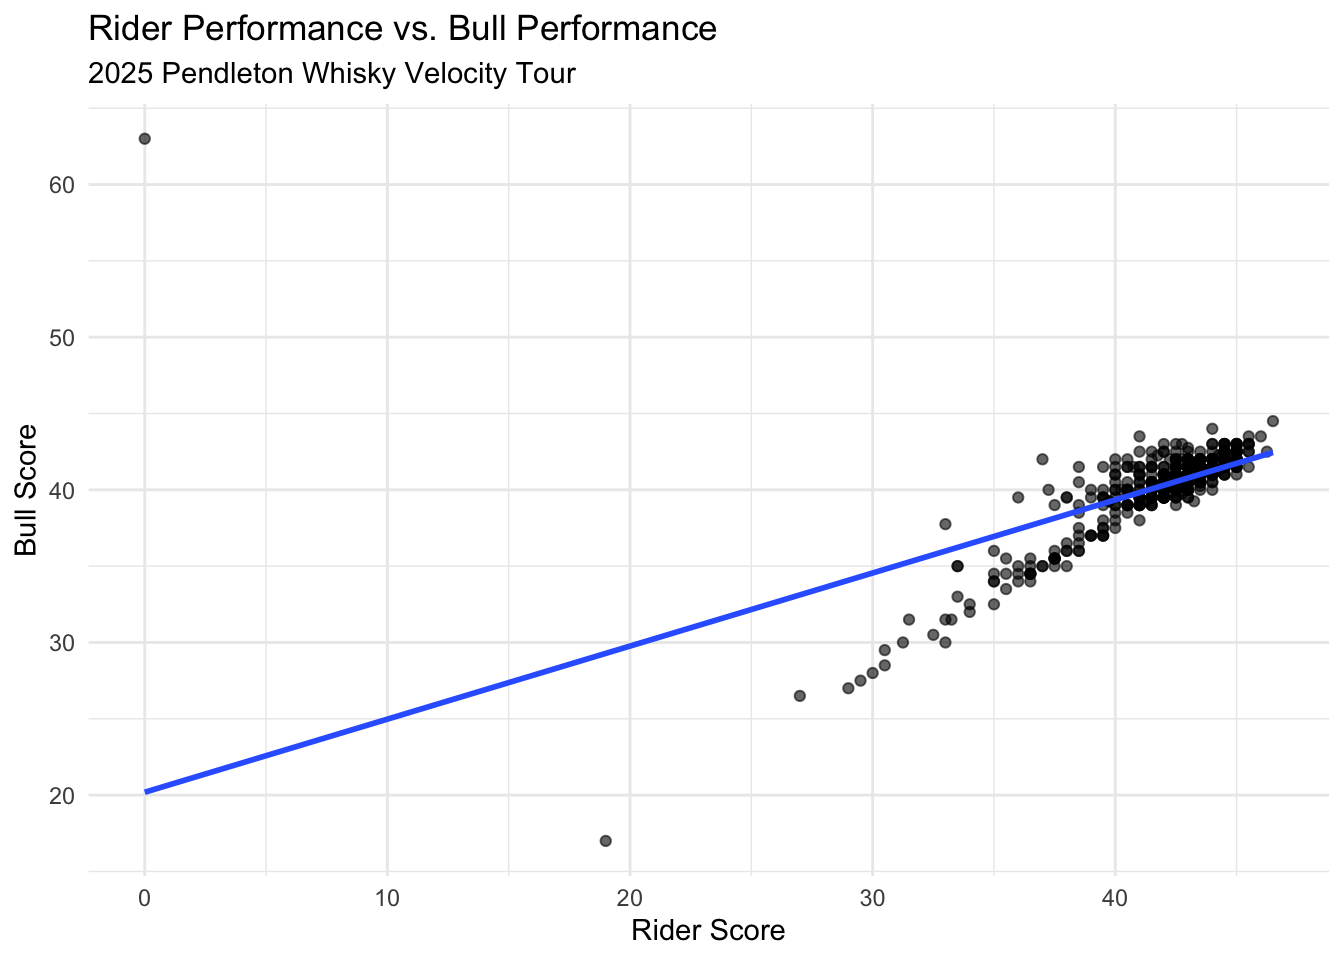
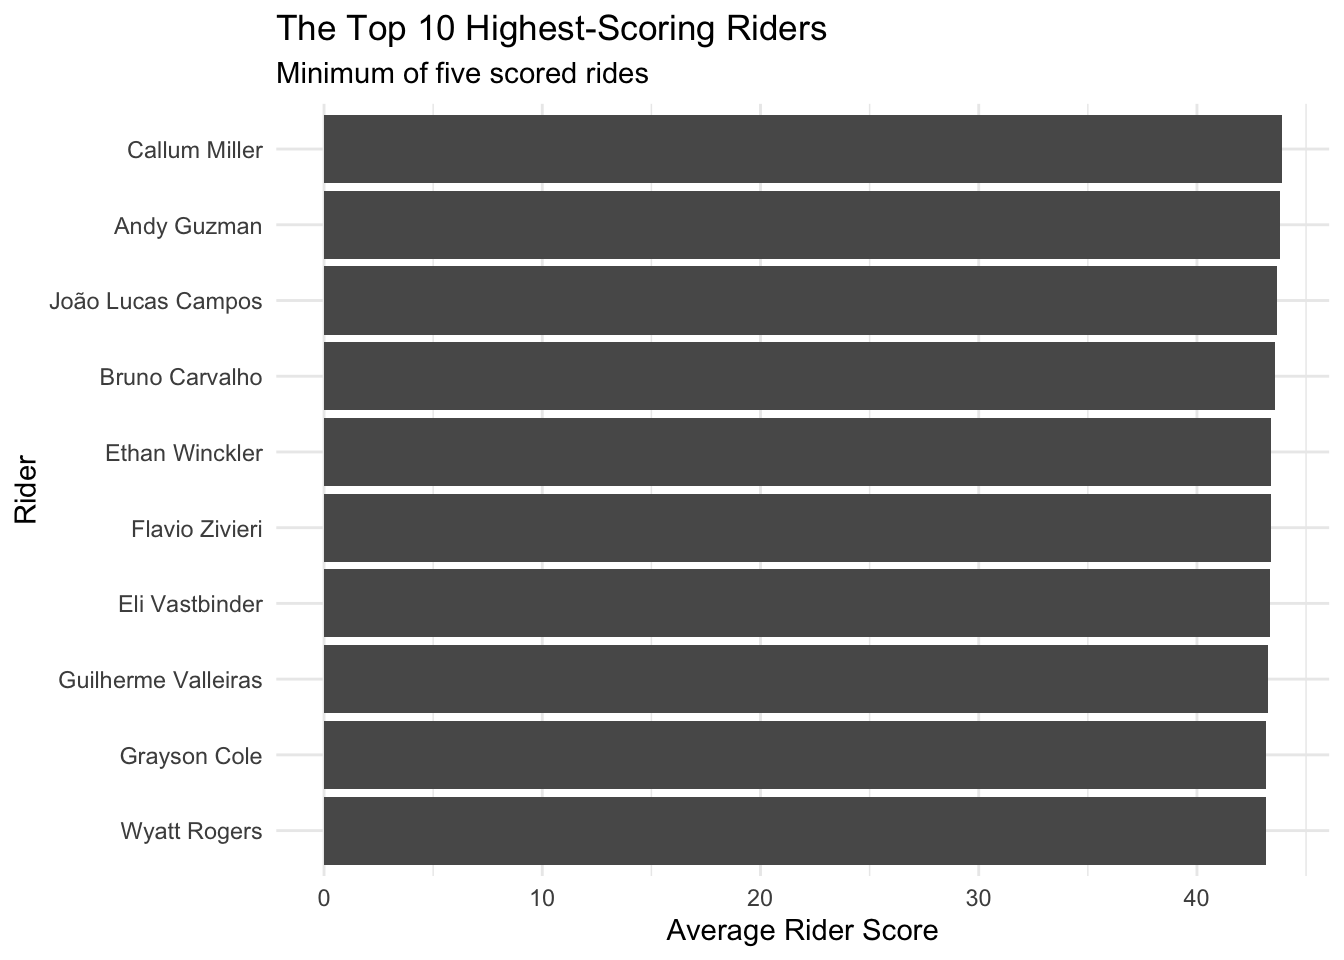
update

diff --git a/posts/pbr-bull-riding-rodeo-cowboy/index.html b/posts/pbr-bull-riding-rodeo-cowboy/index.html
@@ -404,8 +404,6 @@ dbl (3): Rider_Score, Bull_Score, Total_Score
 ℹ Use `spec()` to retrieve the full column specification for this data.
 ℹ Specify the column types or set `show_col_types = FALSE` to quiet this message.</code></pre>
 </div>
-</div>
-<div class="cell">
 <details class="code-fold">
 <summary>Code</summary>
 <div class="code-copy-outer-scaffold"><div class="sourceCode cell-code" id="cb5"><pre class="sourceCode r code-with-copy"><code class="sourceCode r"><span id="cb5-1"><a href="#cb5-1" aria-hidden="true" tabindex="-1"></a><span class="fu">summary</span>(bullriding)</span></code></pre></div><button title="Copy to Clipboard" class="code-copy-button"><i class="bi"></i></button></div>
@@ -446,8 +444,6 @@ dbl (3): Rider_Score, Bull_Score, Total_Score
 1         572     32    156   399                41.9               40.3
 # ℹ 1 more variable: average_total_score &lt;dbl&gt;</code></pre>
 </div>
-</div>
-<div class="cell">
 <details class="code-fold">
 <summary>Code</summary>
 <div class="code-copy-outer-scaffold"><div class="sourceCode cell-code" id="cb9"><pre class="sourceCode r code-with-copy"><code class="sourceCode r"><span id="cb9-1"><a href="#cb9-1" aria-hidden="true" tabindex="-1"></a><span class="fu">ggplot</span>(bullriding, <span class="fu">aes</span>(<span class="at">x =</span> Rider_Score, <span class="at">y =</span> Bull_Score)) <span class="sc">+</span></span>
@@ -467,11 +463,96 @@ dbl (3): Rider_Score, Bull_Score, Total_Score
 <div class="cell-output-display">
 <div>
 <figure class="figure">
+<p><img src="index_files/figure-html/unnamed-chunk-1-1.png" class="img-fluid figure-img" width="672"></p>
+</figure>
+</div>
+</div>
+</div>
+<p>This scatterplot compares rider scores and bull scores for each scored ride. It helps show whether higher rider scores tend to occur alongside higher bull scores.&nbsp;</p>
+<p>The correlation of the two scores does indicate a positive relationship between the scores, meaning that higher rider scores tend to be alongside higher bull scores.</p>
+<div class="cell">
+<details class="code-fold">
+<summary>Code</summary>
+<div class="code-copy-outer-scaffold"><div class="sourceCode cell-code" id="cb11"><pre class="sourceCode r code-with-copy"><code class="sourceCode r"><span id="cb11-1"><a href="#cb11-1" aria-hidden="true" tabindex="-1"></a>score_comparison <span class="ot">&lt;-</span> bullriding <span class="sc">|&gt;</span></span>
+<span id="cb11-2"><a href="#cb11-2" aria-hidden="true" tabindex="-1"></a>  <span class="fu">summarise</span>(</span>
+<span id="cb11-3"><a href="#cb11-3" aria-hidden="true" tabindex="-1"></a>    <span class="st">`</span><span class="at">Rider Score</span><span class="st">`</span> <span class="ot">=</span> <span class="fu">mean</span>(Rider_Score),</span>
+<span id="cb11-4"><a href="#cb11-4" aria-hidden="true" tabindex="-1"></a>    <span class="st">`</span><span class="at">Bull Score</span><span class="st">`</span> <span class="ot">=</span> <span class="fu">mean</span>(Bull_Score)</span>
+<span id="cb11-5"><a href="#cb11-5" aria-hidden="true" tabindex="-1"></a>  ) <span class="sc">|&gt;</span></span>
+<span id="cb11-6"><a href="#cb11-6" aria-hidden="true" tabindex="-1"></a>  <span class="fu">pivot_longer</span>(</span>
+<span id="cb11-7"><a href="#cb11-7" aria-hidden="true" tabindex="-1"></a>    <span class="fu">everything</span>(),</span>
+<span id="cb11-8"><a href="#cb11-8" aria-hidden="true" tabindex="-1"></a>    <span class="at">names_to =</span> <span class="st">"Athlete"</span>,</span>
+<span id="cb11-9"><a href="#cb11-9" aria-hidden="true" tabindex="-1"></a>    <span class="at">values_to =</span> <span class="st">"Average"</span></span>
+<span id="cb11-10"><a href="#cb11-10" aria-hidden="true" tabindex="-1"></a>  )</span>
+<span id="cb11-11"><a href="#cb11-11" aria-hidden="true" tabindex="-1"></a></span>
+<span id="cb11-12"><a href="#cb11-12" aria-hidden="true" tabindex="-1"></a><span class="fu">ggplot</span>(score_comparison, <span class="fu">aes</span>(<span class="at">x =</span> Athlete, <span class="at">y =</span> Average)) <span class="sc">+</span></span>
+<span id="cb11-13"><a href="#cb11-13" aria-hidden="true" tabindex="-1"></a>  <span class="fu">geom_col</span>() <span class="sc">+</span></span>
+<span id="cb11-14"><a href="#cb11-14" aria-hidden="true" tabindex="-1"></a>  <span class="fu">labs</span>(</span>
+<span id="cb11-15"><a href="#cb11-15" aria-hidden="true" tabindex="-1"></a>    <span class="at">title =</span> <span class="st">"Who Scores More Points?"</span>,</span>
+<span id="cb11-16"><a href="#cb11-16" aria-hidden="true" tabindex="-1"></a>    <span class="at">subtitle =</span> <span class="st">"Average scores across 572 scored rides"</span>,</span>
+<span id="cb11-17"><a href="#cb11-17" aria-hidden="true" tabindex="-1"></a>    <span class="at">x =</span> <span class="st">""</span>,</span>
+<span id="cb11-18"><a href="#cb11-18" aria-hidden="true" tabindex="-1"></a>    <span class="at">y =</span> <span class="st">"Average Score"</span></span>
+<span id="cb11-19"><a href="#cb11-19" aria-hidden="true" tabindex="-1"></a>  ) <span class="sc">+</span></span>
+<span id="cb11-20"><a href="#cb11-20" aria-hidden="true" tabindex="-1"></a>  <span class="fu">theme_minimal</span>()</span></code></pre></div><button title="Copy to Clipboard" class="code-copy-button"><i class="bi"></i></button></div>
+</details>
+<div class="cell-output-display">
+<div>
+<figure class="figure">
+<p><img src="index_files/figure-html/unnamed-chunk-2-1.png" class="img-fluid figure-img" width="672"></p>
+</figure>
+</div>
+</div>
+</div>
+<p>Based on the average scores, it is shown that riders often contribute higher scores than the bulls in qualified rides. However, both athletes play a big role in determining the final score.&nbsp;</p>
+<p><br>
+</p>
+<p>Which Riders tend to put up the highest scores?</p>
+<p><br>
+</p>
+<p>Rather than looking into one exceptionally higher score, I compared the consistency of the riders throughout the Velocity Tour in 2025. To make the data more meaningful I only included riders that had five or more qualified rides.</p>
+<div class="cell">
+<details class="code-fold">
+<summary>Code</summary>
+<div class="code-copy-outer-scaffold"><div class="sourceCode cell-code" id="cb12"><pre class="sourceCode r code-with-copy"><code class="sourceCode r"><span id="cb12-1"><a href="#cb12-1" aria-hidden="true" tabindex="-1"></a>top_riders <span class="ot">&lt;-</span> bullriding <span class="sc">|&gt;</span></span>
+<span id="cb12-2"><a href="#cb12-2" aria-hidden="true" tabindex="-1"></a>  <span class="fu">group_by</span>(Rider) <span class="sc">|&gt;</span></span>
+<span id="cb12-3"><a href="#cb12-3" aria-hidden="true" tabindex="-1"></a>  <span class="fu">summarise</span>(</span>
+<span id="cb12-4"><a href="#cb12-4" aria-hidden="true" tabindex="-1"></a>    <span class="at">Average_Score =</span> <span class="fu">mean</span>(Rider_Score, <span class="at">na.rm =</span> <span class="cn">TRUE</span>),</span>
+<span id="cb12-5"><a href="#cb12-5" aria-hidden="true" tabindex="-1"></a>    <span class="at">Attempts =</span> <span class="fu">n</span>()</span>
+<span id="cb12-6"><a href="#cb12-6" aria-hidden="true" tabindex="-1"></a>  ) <span class="sc">|&gt;</span></span>
+<span id="cb12-7"><a href="#cb12-7" aria-hidden="true" tabindex="-1"></a>  <span class="fu">filter</span>(Attempts <span class="sc">&gt;=</span> <span class="dv">5</span>) <span class="sc">|&gt;</span></span>
+<span id="cb12-8"><a href="#cb12-8" aria-hidden="true" tabindex="-1"></a>  <span class="fu">arrange</span>(<span class="fu">desc</span>(Average_Score)) <span class="sc">|&gt;</span></span>
+<span id="cb12-9"><a href="#cb12-9" aria-hidden="true" tabindex="-1"></a>  <span class="fu">slice_head</span>(<span class="at">n =</span> <span class="dv">10</span>)</span>
+<span id="cb12-10"><a href="#cb12-10" aria-hidden="true" tabindex="-1"></a></span>
+<span id="cb12-11"><a href="#cb12-11" aria-hidden="true" tabindex="-1"></a><span class="fu">ggplot</span>(top_riders,</span>
+<span id="cb12-12"><a href="#cb12-12" aria-hidden="true" tabindex="-1"></a>       <span class="fu">aes</span>(<span class="at">x =</span> <span class="fu">reorder</span>(Rider, Average_Score),</span>
+<span id="cb12-13"><a href="#cb12-13" aria-hidden="true" tabindex="-1"></a>           <span class="at">y =</span> Average_Score)) <span class="sc">+</span></span>
+<span id="cb12-14"><a href="#cb12-14" aria-hidden="true" tabindex="-1"></a>  <span class="fu">geom_col</span>() <span class="sc">+</span></span>
+<span id="cb12-15"><a href="#cb12-15" aria-hidden="true" tabindex="-1"></a>  <span class="fu">coord_flip</span>() <span class="sc">+</span></span>
+<span id="cb12-16"><a href="#cb12-16" aria-hidden="true" tabindex="-1"></a>  <span class="fu">labs</span>(</span>
+<span id="cb12-17"><a href="#cb12-17" aria-hidden="true" tabindex="-1"></a>    <span class="at">title =</span> <span class="st">"The Top 10 Highest-Scoring Riders"</span>,</span>
+<span id="cb12-18"><a href="#cb12-18" aria-hidden="true" tabindex="-1"></a>    <span class="at">subtitle =</span> <span class="st">"Minimum of five scored rides"</span>,</span>
+<span id="cb12-19"><a href="#cb12-19" aria-hidden="true" tabindex="-1"></a>    <span class="at">x =</span> <span class="st">"Rider"</span>,</span>
+<span id="cb12-20"><a href="#cb12-20" aria-hidden="true" tabindex="-1"></a>    <span class="at">y =</span> <span class="st">"Average Rider Score"</span></span>
+<span id="cb12-21"><a href="#cb12-21" aria-hidden="true" tabindex="-1"></a>  ) <span class="sc">+</span></span>
+<span id="cb12-22"><a href="#cb12-22" aria-hidden="true" tabindex="-1"></a>  <span class="fu">theme_minimal</span>()</span></code></pre></div><button title="Copy to Clipboard" class="code-copy-button"><i class="bi"></i></button></div>
+</details>
+<div class="cell-output-display">
+<div>
+<figure class="figure">
 <p><img src="index_files/figure-html/unnamed-chunk-3-1.png" class="img-fluid figure-img" width="672"></p>
 </figure>
 </div>
 </div>
 </div>
+<p>These results show which riders produced the highest average scores among those with at least five qualified rides.&nbsp;</p>
+<p><br>
+<br>
+<br>
+</p>
+<p>The 2025 Pendleton Whisky Velocity Tour results show that bull riding is a sport that depends on the performances of two athletes. Rider scores and bull scores have a positive relationship and both contribute to the final score.&nbsp;</p>
+<p>Although the riders in this dataset did contribute higher scores than the bulls, that does not mean one athlete is more important than the other. A high-scoring ride only comes with a combination of rider ability and bull performance.</p>
+<p><br>
+</p>
+<p>Overall, the riders reinforce what makes bull riding a unique sport. It takes two athletes to produce a great ride.</p>
 
 
 

diff --git a/index.html b/index.html
@@ -379,7 +379,7 @@ window.Quarto = {
 
 <div class="quarto-listing quarto-listing-container-default" id="listing-listing">
 <div class="list quarto-listing-default">
-<div class="quarto-post image-right" data-index="0" data-categories="YnVsbHJpZGluZyUyQ2J1bGxzJTJDcmlkZXJz" data-listing-date-sort="1794549600000" data-listing-file-modified-sort="1794603018200" data-listing-date-modified-sort="NaN" data-listing-reading-time-sort="1" data-listing-word-count-sort="174">
+<div class="quarto-post image-right" data-index="0" data-categories="YnVsbHJpZGluZyUyQ2J1bGxzJTJDcmlkZXJz" data-listing-date-sort="1794549600000" data-listing-file-modified-sort="1794605564682" data-listing-date-modified-sort="NaN" data-listing-reading-time-sort="4" data-listing-word-count-sort="612">
 <div class="thumbnail"><a href="./posts/pbr-bull-riding-rodeo-cowboy/index.html" class="no-external-icon">
 
 <img loading="lazy" src="./posts/pbr-bull-riding-rodeo-cowboy/image.png" class="thumbnail-image">
